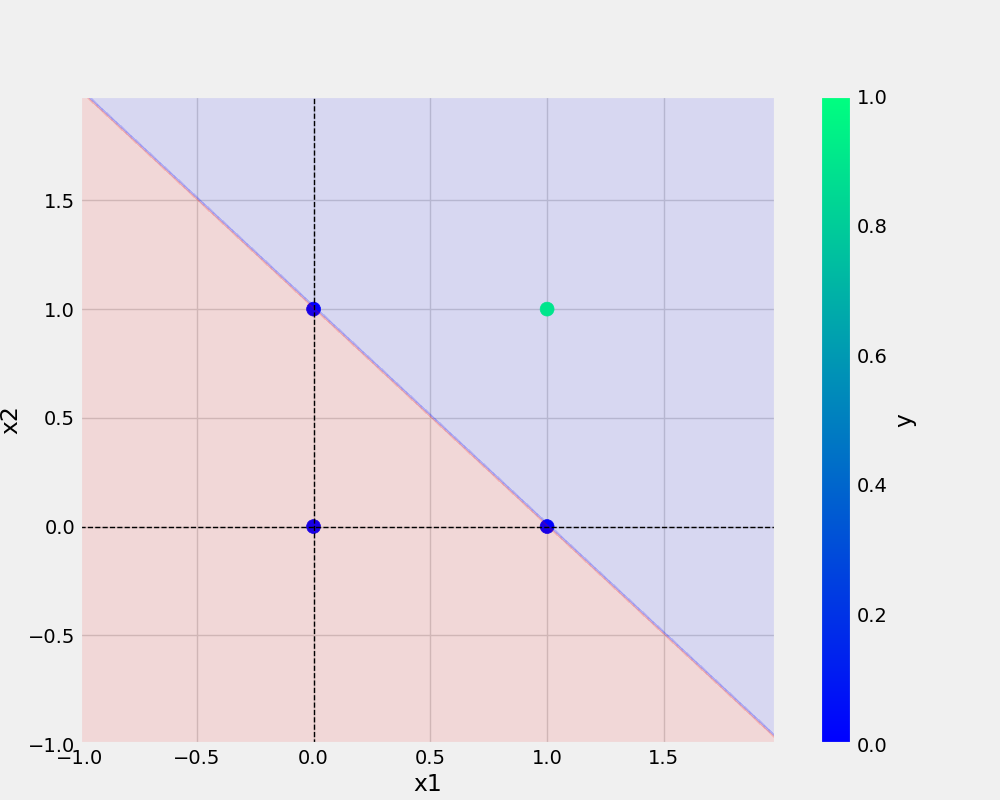
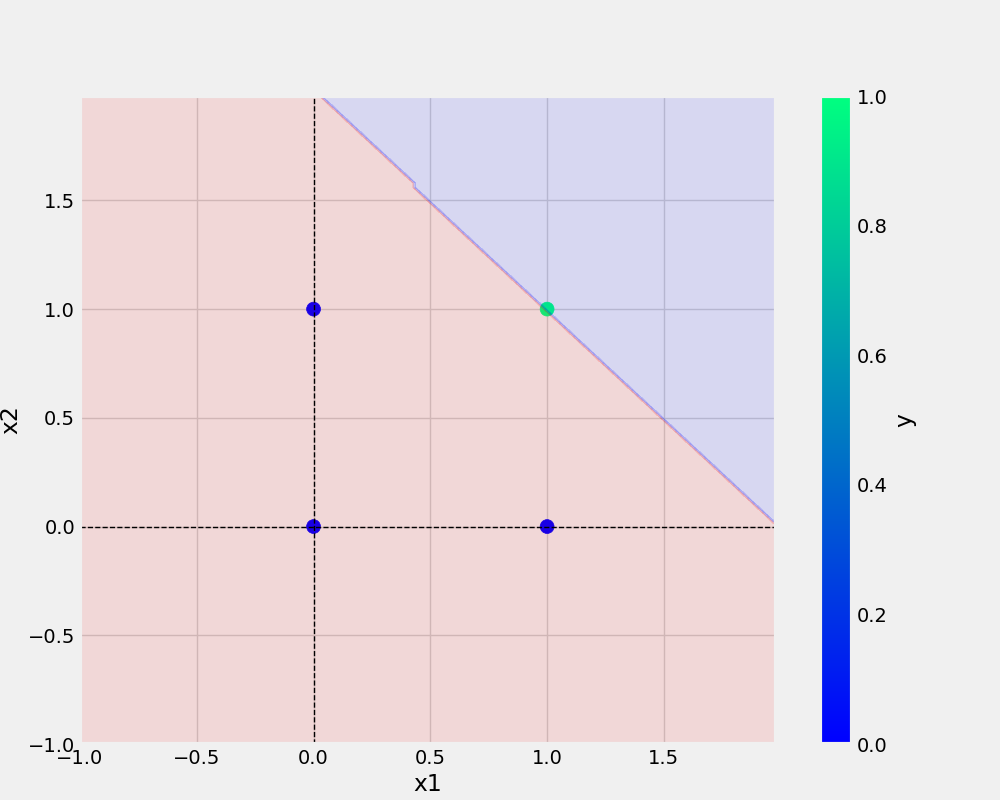
organized manner

Changed region(s): [[0.093, 0.125, 0.775, 0.9062]]

diff --git a/and.py b/and.py
@@ -3,21 +3,26 @@ from utils.all_utils import prepare_data,save_model,save_plot
 import pandas as pd
 import numpy as np
 
-AND={
-    "x1":[0,0,1,1],
-    "x2":[0,1,0,1],
-    "y":[0,0,0,1],
-}
-df=pd.DataFrame(AND)
+def main(data,eta,epochs,filename,plotFileName):
+    df=pd.DataFrame(data)
 
-print(df)
+    print(df)
+    X,y=prepare_data(df)
+    model=Perceptron(eta=eta,epochs=epochs)
+    model.fit(X,y)
+    _=model.total_loss() #dummy variable _ we can remove it whenever we want
 
-X,y=prepare_data(df)
-ETA=0.3
-EPOCHS=10
-model=Perceptron(eta=ETA,epochs=EPOCHS)
-model.fit(X,y)
-_=model.total_loss()
+    save_model(model,filename=filename)
+    save_plot(df,plotFileName,model)
 
-save_model(model,filename="and.model")
-save_plot(df,"and.png",model)
+
+if __name__== '__main__': #entry point to the whole code
+
+    AND={
+        "x1":[0,0,1,1],
+        "x2":[0,1,0,1],
+        "y":[0,0,0,1],
+    }
+    ETA=0.3
+    EPOCHS=10
+    main(data=AND,eta=ETA,epochs=EPOCHS,filename="and.model",plotFileName="and.png")

diff --git a/or.py b/or.py
@@ -1,0 +1,33 @@
+from utils.model import Perceptron
+from utils.all_utils import prepare_data,save_model,save_plot
+import pandas as pd
+import numpy as np
+
+from utils.model import Perceptron
+from utils.all_utils import prepare_data,save_model,save_plot
+import pandas as pd
+import numpy as np
+
+def main(data,eta,epochs,filename,plotFileName):
+    df=pd.DataFrame(data)
+
+    print(df)
+    X,y=prepare_data(df)
+    model=Perceptron(eta=eta,epochs=epochs)
+    model.fit(X,y)
+    _=model.total_loss() #dummy variable _ we can remove it whenever we want
+
+    save_model(model,filename=filename)
+    save_plot(df,plotFileName,model)
+
+
+if __name__== '__main__': #entry point to the whole code
+
+    OR={
+    "x1":[0,0,1,1],
+    "x2":[0,1,0,1],
+    "y":[0,1,1,1],
+    }
+    ETA=0.3
+    EPOCHS=10
+    main(data=OR,eta=ETA,epochs=EPOCHS,filename="or.model",plotFileName="or.png")
